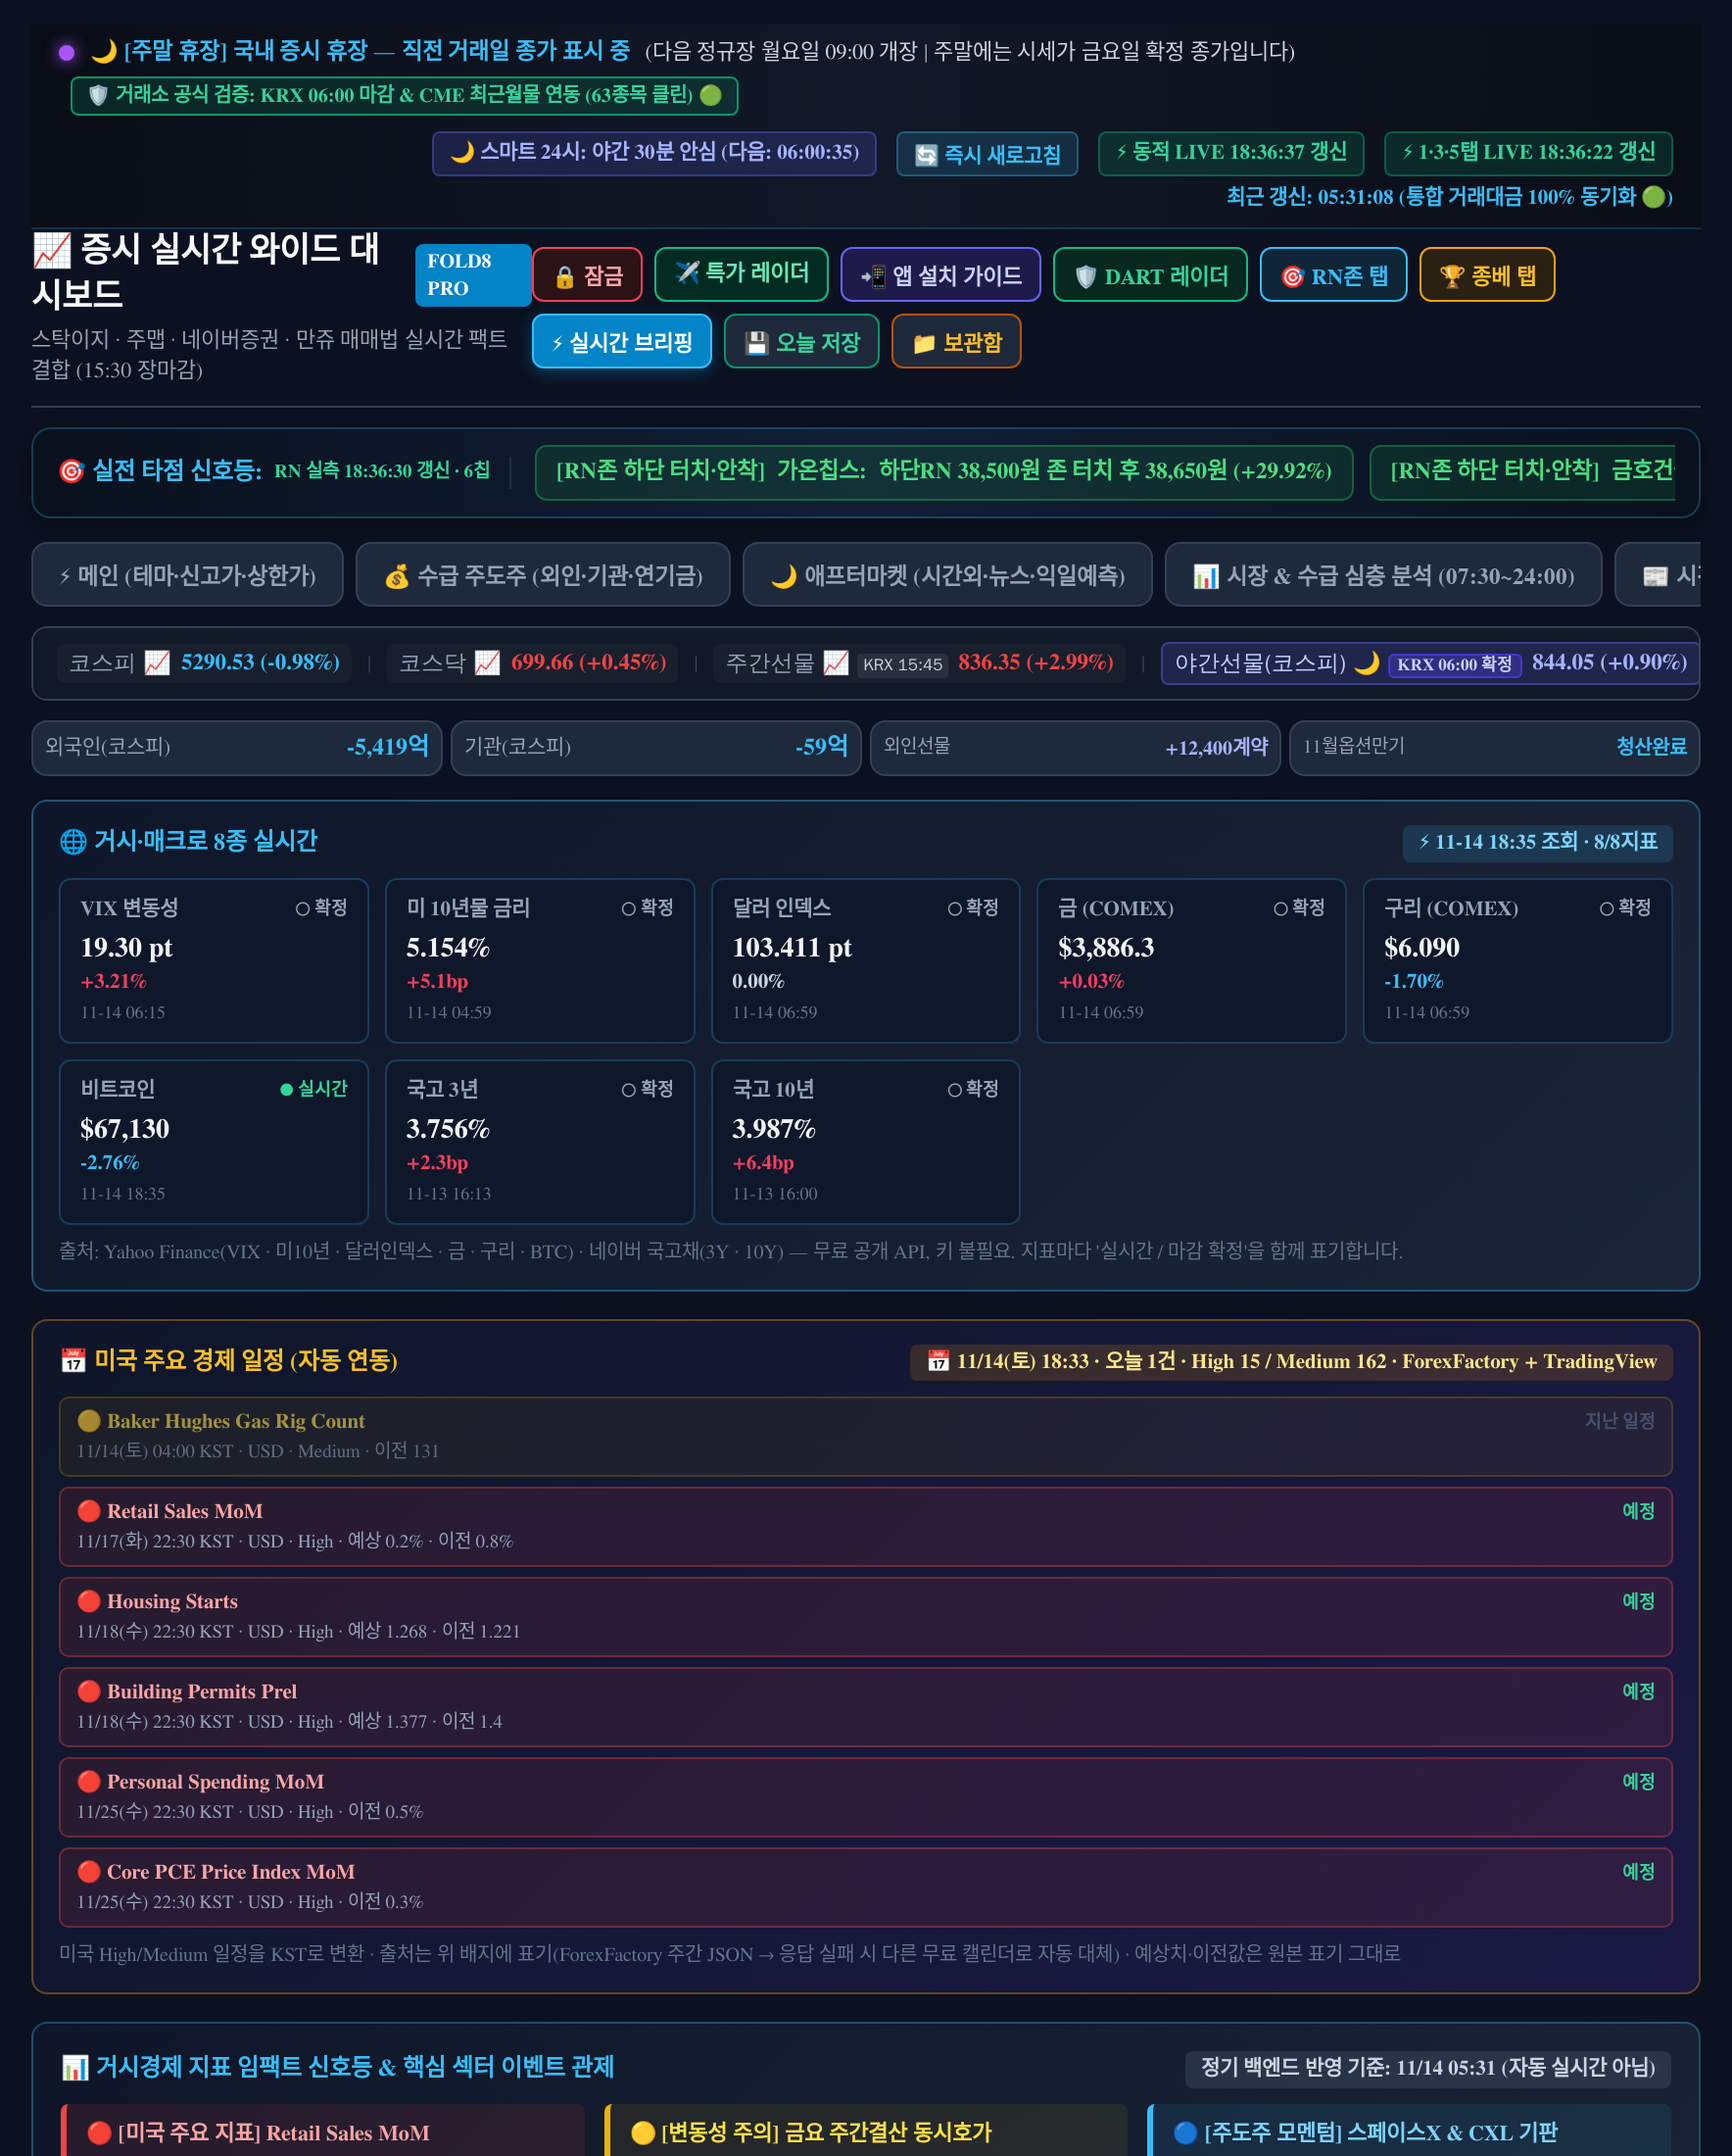
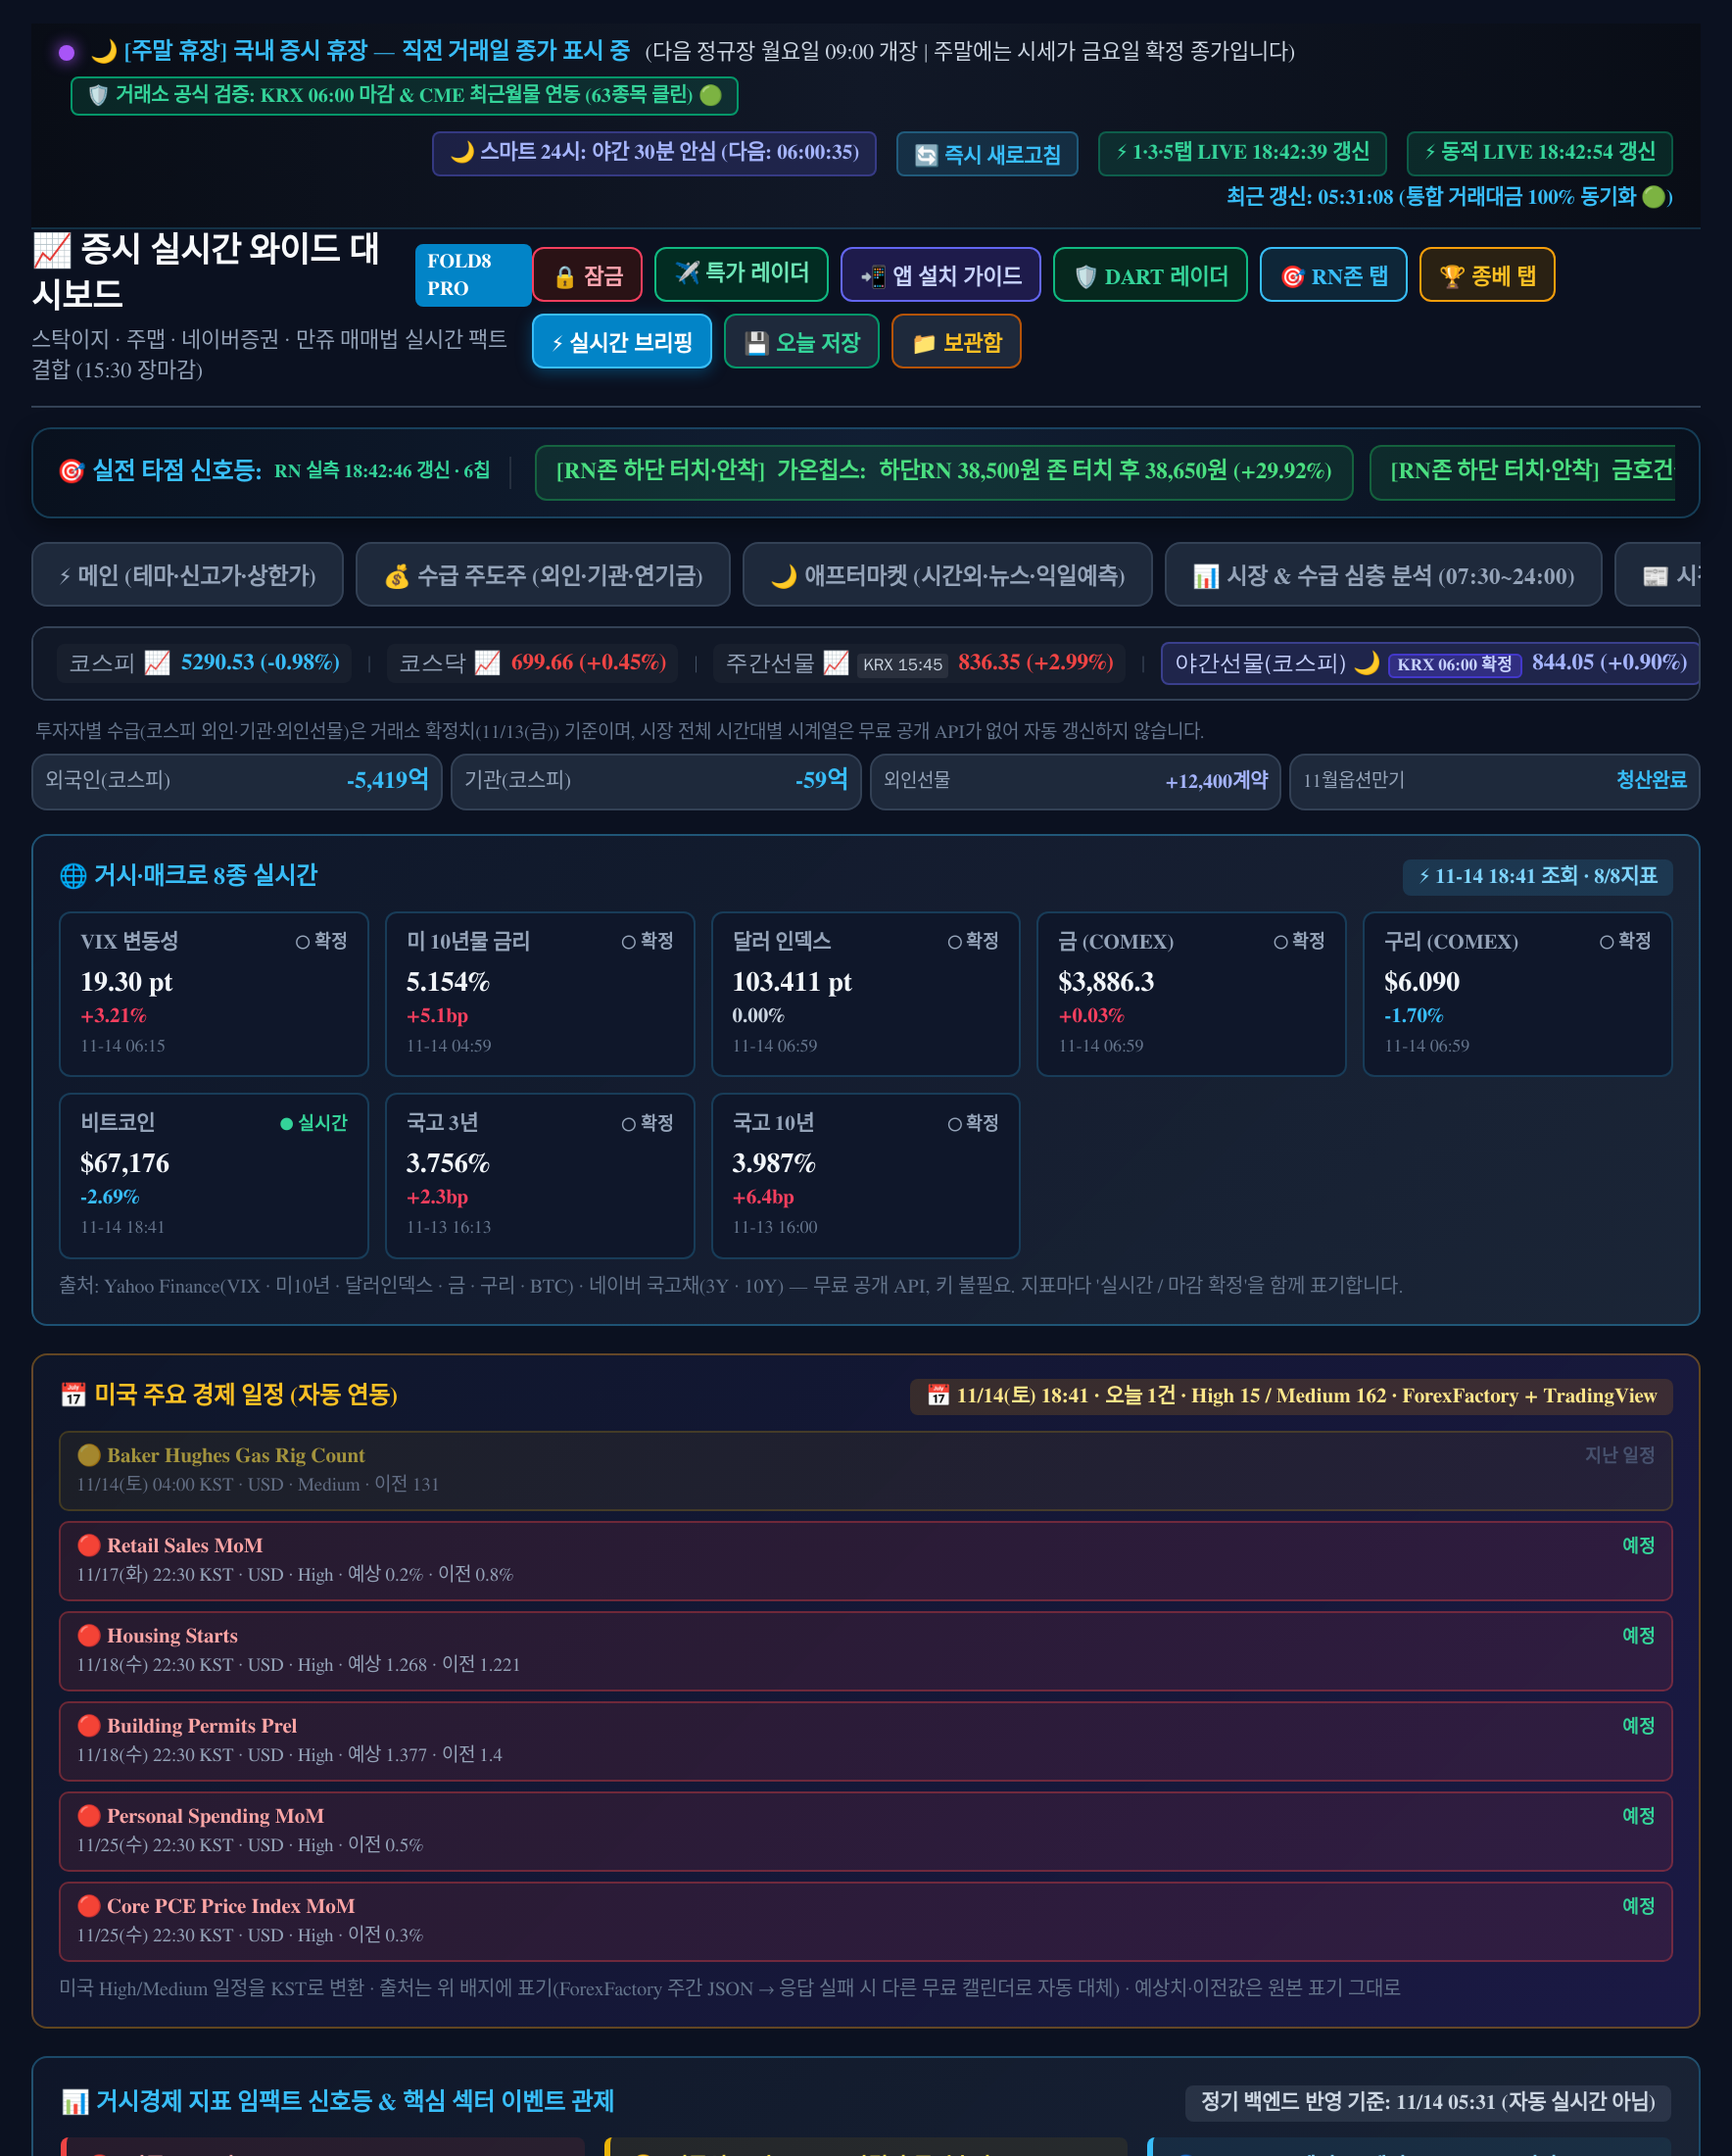
fix(supply): 20초 폴링이 수급 배지의 확정 기준일을 덮어쓰지 않게 — 배지에 (11/13(금)) 자동 반영 유지

diff --git a/public/live-extra.js b/public/live-extra.js
@@ -609,8 +609,11 @@
       nxtEl.textContent = '⚡ ' + stamp + ' 조회 · 현재가·등락률·통합대금(KRX+NXT) 실시간' + phaseTxt;
     }
     if (supplyEl) {
+      // 확정 수급(/api/stock-trend)이 반영됐으면 그 기준일을 함께 적는다 — 20초 폴링이 문구를 되돌리지 않게
+      var basis = state.trend && state.trend.basisLabel ? state.trend.basisLabel : null;
       supplyEl.textContent = '⚡ ' + stamp + ' 조회 현재가·등락률 실시간 (/api/stock-live)' + phaseTxt +
-        ' — 외인·기관·연기금 순매수 금액은 KRX 장마감 확정치이며 실시간이 아닙니다.';
+        ' — 외인·기관 순매수 금액은 거래소 확정치' + (basis ? '(' + basis + ') 자동 반영' : '(아직 미반영)') +
+        '이며 실시간이 아닙니다.';
     }
     if (payload && payload.generatedAtKst) state.lastAt = stamp;
   }
